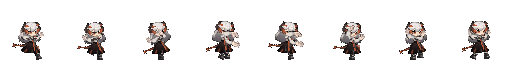
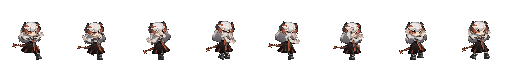
塞雷娅 S3 拳击：去掉手臂拉长与拳头放大，原尺寸双拳前推（用户 10-24「都不要放大」）

diff --git a/tools/op_1x/native_extra.py b/tools/op_1x/native_extra.py
@@ -39,11 +39,11 @@ def hoshiguma():
 
 # 塞雷娅 S3 空手拳击（10-24 用户「技能期间改成跑动拳击」→「看不太出来双手，能不能手往前伸」）：原生 Skill_Loop t=0 的空手站姿上
 # 逐帧转双臂（左臂在前；右臂在身后，转约 -140° 才到身前）。手臂大半被白毛领挡住，出拳几帧把双臂提到毛领上层画（top），
-# 上臂 / 前臂沿骨长方向拉长、拳头略放大 1.1 倍（像素画的夸张手法；10-24 用户嫌 1.4 倍太大），1 倍下才看得出双手前推。
+# 不拉长也不放大（10-24 用户：放大显得奇怪；拉长 / 放大两列保留为 1.0 方便以后试）。
 # 帧数 / 出手帧与普攻条相同（8 帧，第 4 帧出手），时序由 json 抄普攻的 attack_timing。
 # 每帧：(左上臂, 左前臂, 右上臂, 胸, 手臂拉长, 拳头放大, 提到上层) ；角度为转角增量（度）
 PUNCH = [(0, 0, 0, 0, 1.0, 1.0, False), (20, 45, 20, 4, 1.0, 1.0, False), (28, 70, 35, 6, 1.0, 1.0, True),
-         (-35, -5, -140, -10, 1.3, 1.1, True), (-33, -5, -135, -9, 1.25, 1.08, True), (-15, 15, -70, -4, 1.1, 1.0, True),
+         (-35, -5, -140, -10, 1.0, 1.0, True), (-33, -5, -135, -9, 1.0, 1.0, True), (-15, 15, -70, -4, 1.0, 1.0, True),
          (0, 25, -20, 0, 1.0, 1.0, True), (5, 10, 0, 0, 1.0, 1.0, False)]
 SARIA_HIDE = ["F_Shield", "F_Weapon", "F_Pinhead"]   # 盾 / 武器已放下
 SARIA_ARMS = ["F_R_Arm", "F_R_Shoulder", "F_R_Hand_C", "F_R_Hand_B", "F_R_Hand",

diff --git a/docs/140_op_anim_audit.md b/docs/140_op_anim_audit.md
@@ -121,5 +121,5 @@ python -X utf8 tools/op_1x/native_extra.py --only hoshiguma,saria               
 - **新帧条**：`op_saria_skill_s3_attack`、`op_saria_move_skill_s3_attack`。json 里时序抄普攻的 `attack_timing`，序列加 `"attack": "skill_s3_attack"`。
 - **代码**：`character._move_swap` 允许技能循环里的普攻变体（`sq_atk`）在移动中换跑动版；`_sq_atk_yield` 在变体有跑动版时不让位。
 - **结果**：录像（`build/anim_move/v2/saria_2.gif`，技能期间照常普攻、走停来回）里循环段的出拳 205 帧，其中移动中 112 帧换成跑动拳击；不出拳时站着播循环、移动播空手跑。
-- **第二版（用户「看不太出来双手，能不能手往前伸」）**：改成双拳前推。后臂转约 -140° 到身前；出拳几帧把双臂提到白毛领上层画，上臂 / 前臂拉长 1.3 倍、拳头放大 1.1 倍（第一版 1.4 倍用户嫌太大）（像素画的夸张手法），1 倍下双手前伸约 13 px。实机里技能晶柱特效较密，站在队长身前的博士也会挡一部分。
+- **第二版（用户「看不太出来双手，能不能手往前伸」→「拳头好像太大了」→「都不要放大」）**：改成双拳前推。后臂转约 -140° 到身前；出拳几帧把双臂提到白毛领上层画，不拉长也不放大（曾试过手臂 ×1.3、拳头 ×1.4 / ×1.1，用户嫌奇怪）。实机里技能晶柱特效较密，站在队长身前的博士也会挡一部分。
 
